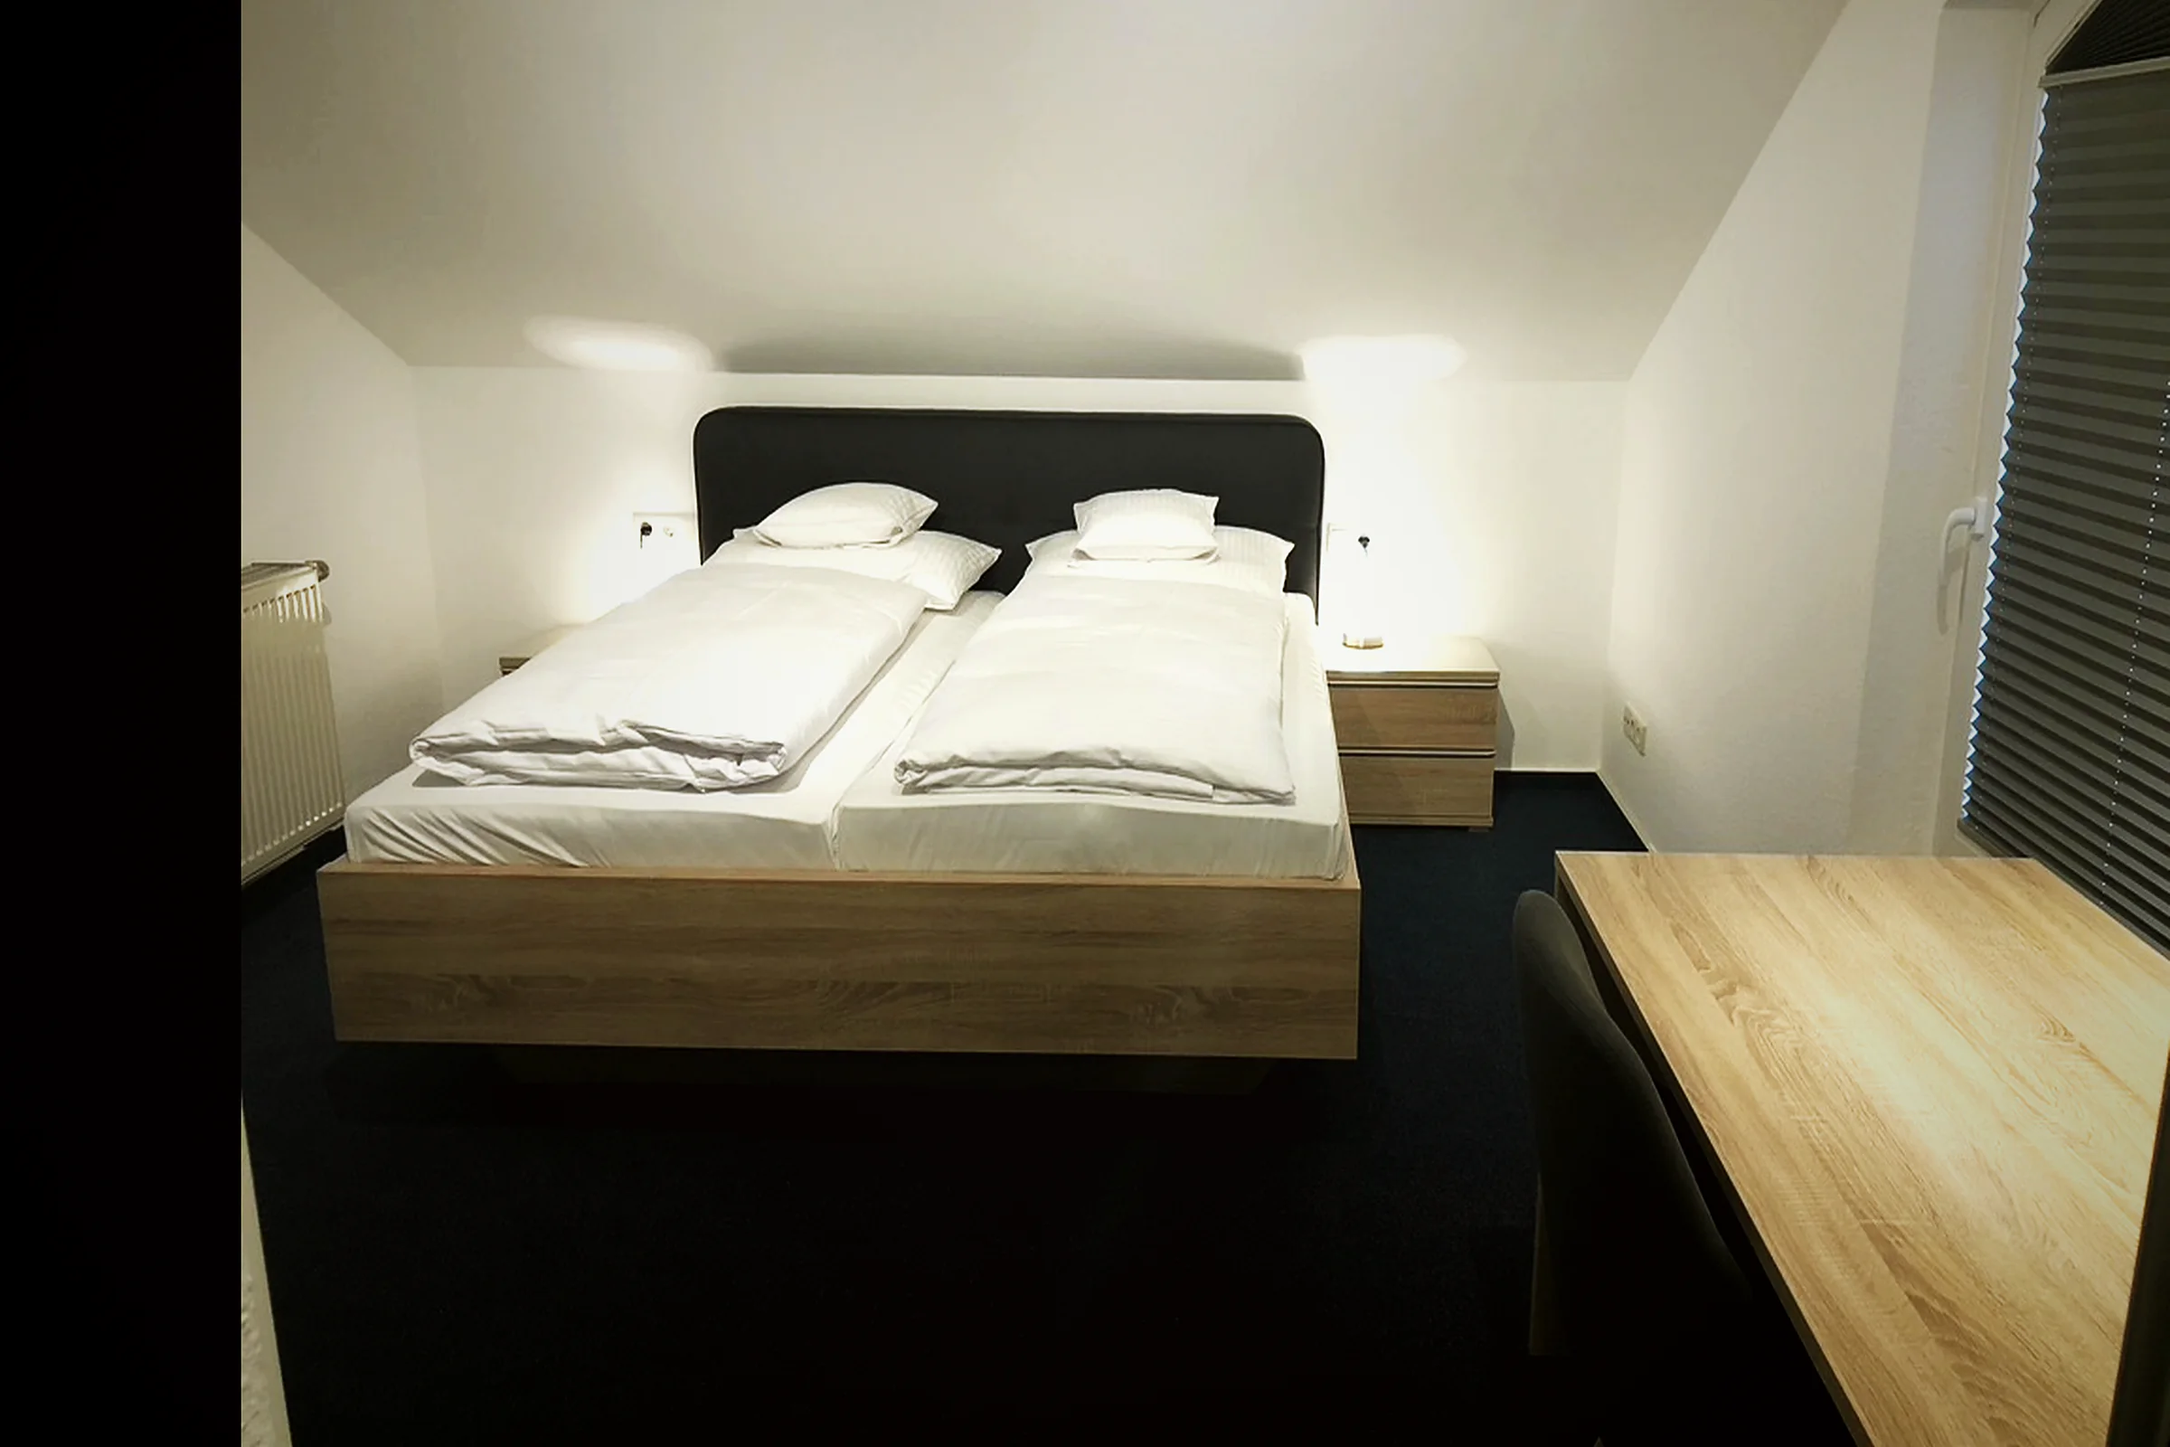
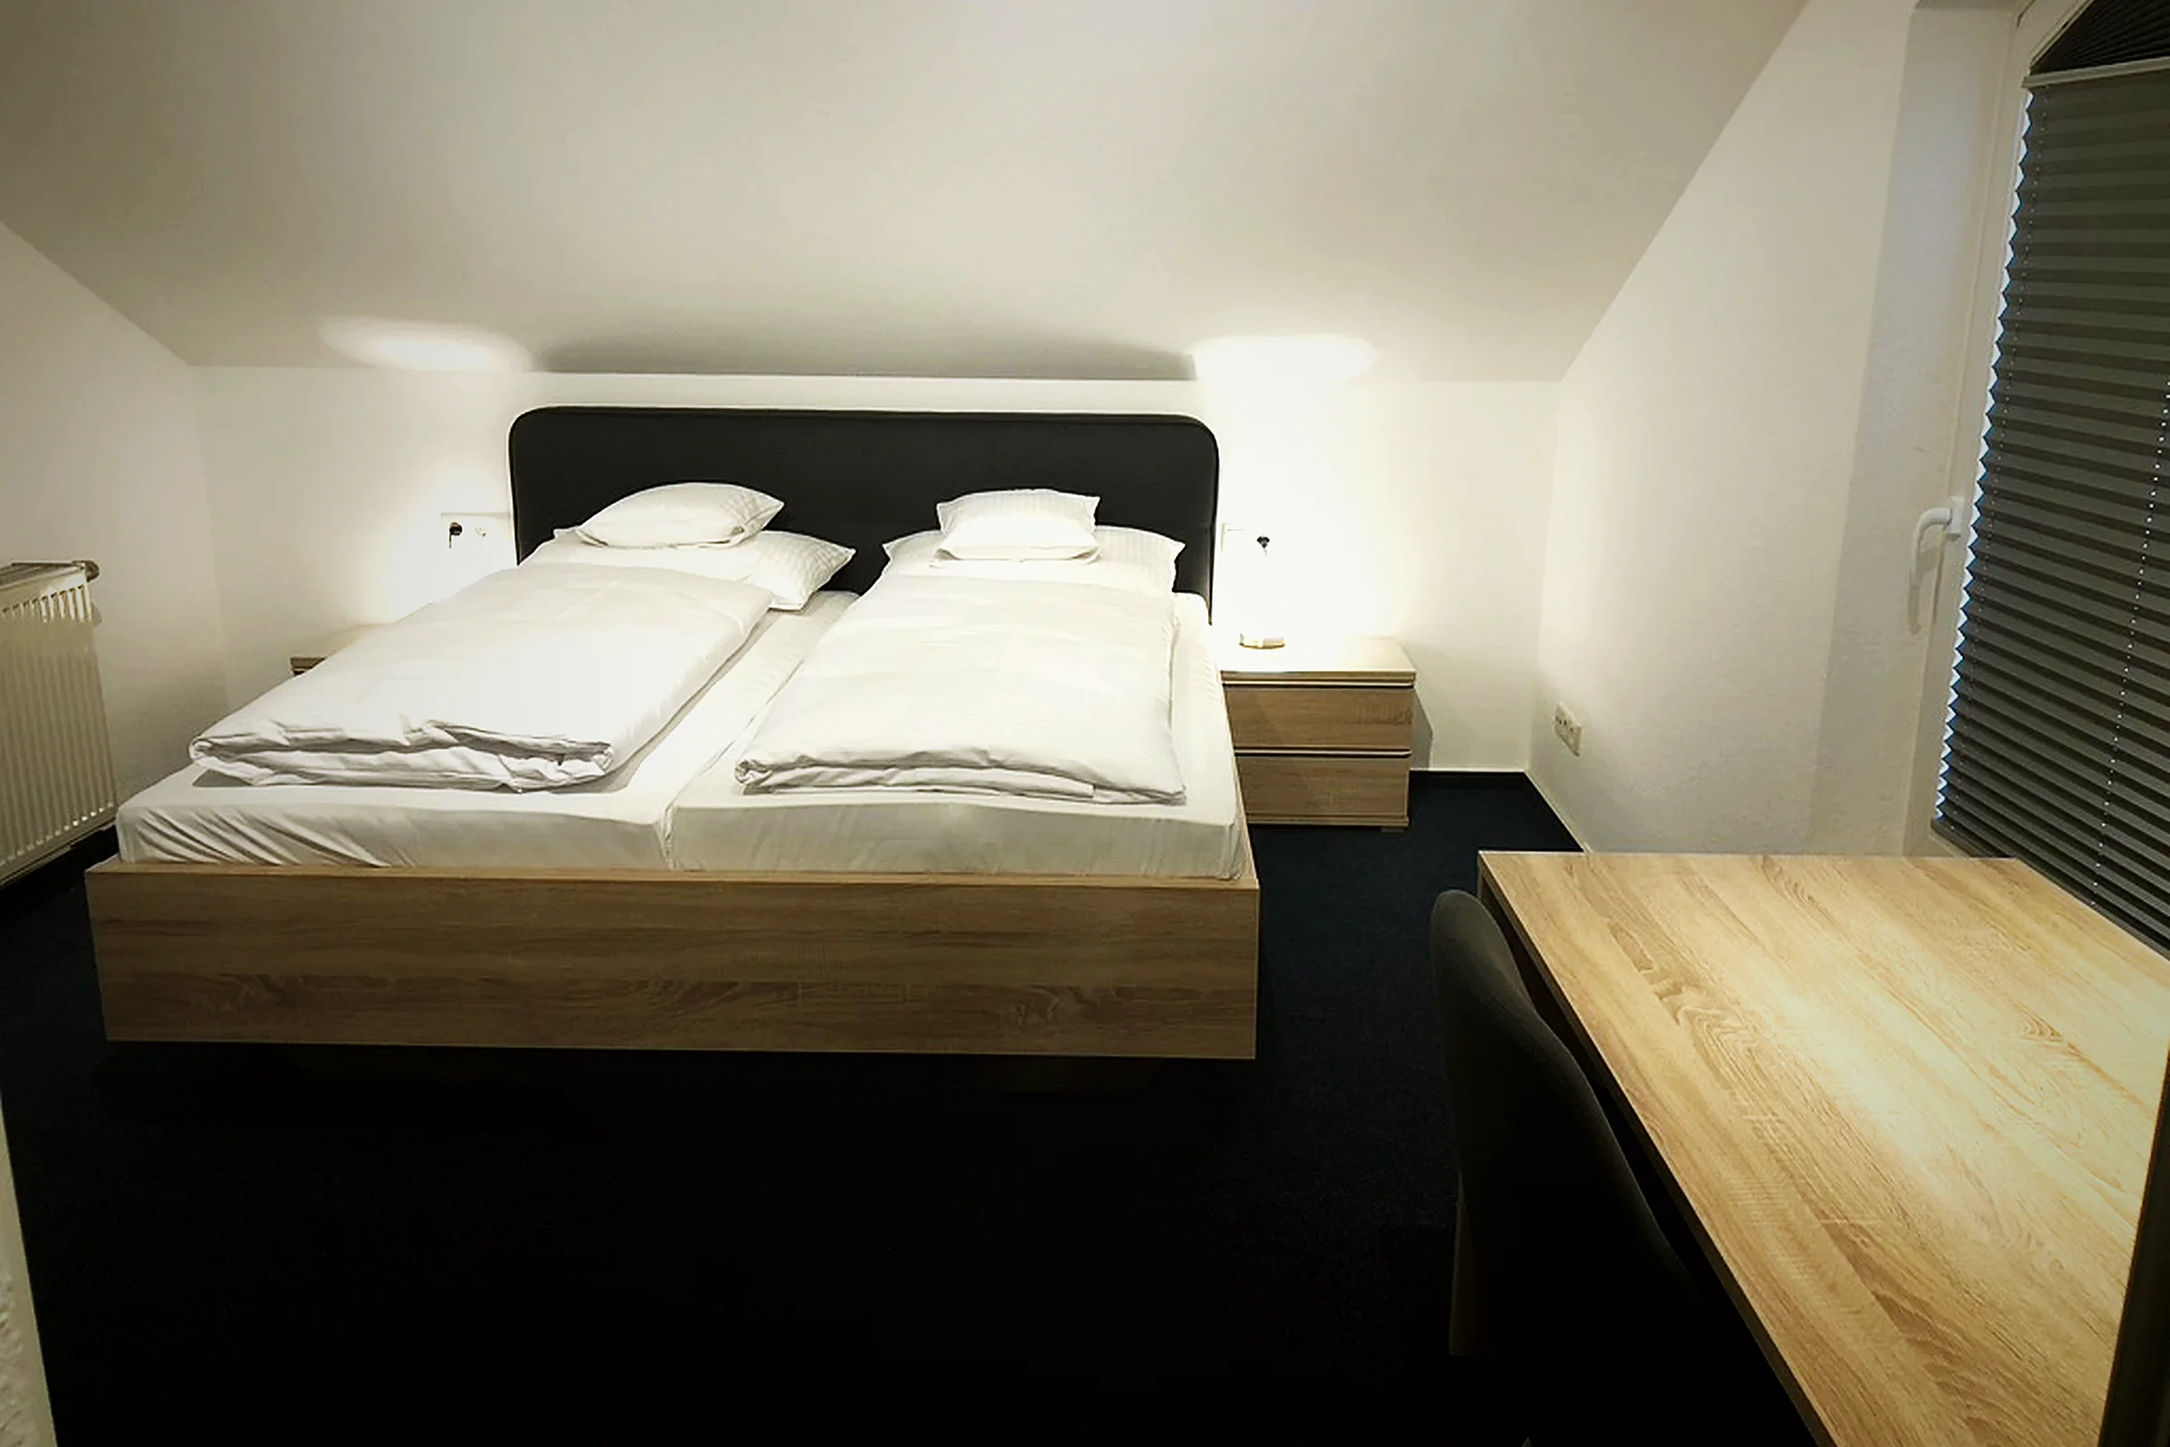
Totals in the planner and wizard without a date, full gallery in the preview, crop fix in the photo pipeline
- provisionalQuote: flat packages priced before a date is chosen – shown as
  net / VAT / gross in the planner panel, in the wizard summary (instead of
  dashes) and on the preview's confirmation page.
- Preview: 'Alle Bilder' opens a gallery of every room's photos.
- grade3.py: cover-crop was computed with a box larger than the source for
  4:3 and 16:9 photos (black bars); fixed and all affected photos re-rendered.
  Stronger cinematic look (clarity, richer curve), extra strength on the
  whole-house drone shot.

Claude-Session: https://claude.ai/code/session_01J4y3PV5V8L4J5YbyBJTNZz

diff --git a/tools/browser-demo/snapshot/runtime.ts b/tools/browser-demo/snapshot/runtime.ts
@@ -63,6 +63,8 @@ const bookable = spaces.filter((s) => s.bookable);
 const selected = new Set<string>();
 const rel = (src: string) => (src.startsWith("/") ? src.slice(1) : src);
 const esc = (s: string) => s.replace(/[&<>"]/g, (c) => ({ "&": "&amp;", "<": "&lt;", ">": "&gt;", '"': "&quot;" })[c]!);
+const PRICE_POLICY = { mode: "none" as const, downPaymentPercent: null, depositCollection: "separately" as const, depositStrategy: "sum" as const };
+const eur = (c: number | null) => (c === null ? "auf Anfrage" : (c / 100).toLocaleString("de-DE", { style: "currency", currency: "EUR" }));
 const LEVEL: Record<string, string> = { "ground-floor": "Erdgeschoss", "first-floor": "1. Obergeschoss", outdoor: "Außenbereich", site: "Gelände" };
 
 /* ------------------------------------------------------------------ tour */
@@ -136,6 +138,18 @@ function updateSelectionUi() {
     const text = b.querySelector("[data-pv-label]") ?? b;
     text.textContent = on ? "Ausgewählt ✓" : "Auswählen";
     b.setAttribute("aria-pressed", String(on));
+  });
+  // price box in the planner: same engine as the request dialog
+  const est = selected.size ? calculateQuote({
+    request: { spaceIds: [...selected], start: Date.UTC(2030, 0, 4, 17), end: Date.UTC(2030, 0, 4, 22), rentalMode: "hourly", dates: ["2030-01-04"], guestCount: null, extras: [] },
+    spaces: spaces.map((s) => ({ id: s.id, name: s.name, basePrice: s.basePrice, priceModel: s.priceModel, deposit: null, cleaningFee: s.cleaningFee, minimumDurationMinutes: null, bookingMode: "inquiry" as const })),
+    rules: [], bundles: [], extras: [], policy: PRICE_POLICY,
+  }) : null;
+  document.querySelectorAll<HTMLElement>("[data-pv-pricebox]").forEach((box) => {
+    box.classList.toggle("hidden", !est);
+    box.querySelector("[data-pv-net]")!.textContent = eur(est?.total ?? null);
+    box.querySelector("[data-pv-vat]")!.textContent = est?.vat.amount === null || est?.vat.amount === undefined ? "–" : eur(est.vat.amount);
+    box.querySelector("[data-pv-gross]")!.textContent = eur(est?.grossTotal ?? null);
   });
   const full = spaces.filter((s) => s.includedInFullVenue && s.bookable);
   const fullOn = full.length > 0 && full.every((s) => selected.has(s.id));
@@ -347,8 +361,6 @@ const flow = {
   error: "",
   ref: "",
 };
-const PRICE_POLICY = { mode: "none" as const, downPaymentPercent: null, depositCollection: "separately" as const, depositStrategy: "sum" as const };
-const eur = (c: number | null) => (c === null ? "auf Anfrage" : (c / 100).toLocaleString("de-DE", { style: "currency", currency: "EUR" }));
 
 /** Same price engine as the website: flat package per room (Fri–Sun), add-ons, 19 % VAT. */
 function quote(): Quote {
@@ -519,7 +531,8 @@ function renderFlow() {
       <h2 class="pv-h2">Vielen Dank, ${esc(flow.form.firstName)}!</h2>
       <p class="pv-ref">Ihre Anfragenummer <strong>${esc(flow.ref)}</strong></p>
       <p class="pv-text">Ihre Anfrage ist eingegangen und die Räume sind für Sie vorgemerkt. Die Krone meldet sich kurzfristig – bei Zusage telefonisch wegen Schlüsselübergabe und Kaution.</p>
-      <p class="pv-text"><strong>Voraussichtlich ${eur(q.grossTotal)}</strong> inkl. MwSt.${flow.extras.size ? ` (mit ${flow.extras.size} Zusatzleistung${flow.extras.size === 1 ? "" : "en"})` : ""}</p>
+      <h3 class="pv-h3">Voraussichtlicher Preis</h3>
+      ${priceHtml(q)}
       <dl class="pv-facts">
         <div><dt>Bereiche</dt><dd>${esc([...flow.spaces].map(nameOf).join(", "))}</dd></div>
         <div><dt>Termin</dt><dd>${esc(fmtRange())}<br>${flow.from}–${flow.to} Uhr</dd></div>
@@ -668,6 +681,23 @@ function closeTopLayer() {
   } else closeDialog();
 }
 
+/* ----------------------------------------------------------- full gallery */
+function openGalleryAll() {
+  const groups = spaces.filter((s) => s.images.length);
+  openDialog(
+    `<p class="pv-eyebrow">Galerie</p><h2 class="pv-h2">Die Krone in Bildern</h2>
+    ${groups
+      .map(
+        (s) => `<h3 class="pv-h3">${esc(s.name)}</h3><div class="pv-grid">${s.images
+          .map((src, i) => `<button type="button" class="pv-grid-item" data-room="${s.slug}" data-room-index="${i}" aria-label="${esc(s.name)} – Bild ${i + 1}"><img src="${esc(src)}" alt="" loading="lazy"></button>`)
+          .join("")}</div>`,
+      )
+      .join("")}
+    <div class="pv-actions"><button type="button" class="pv-btn" data-close>Schließen</button></div>`,
+    { wide: true, label: "Galerie" },
+  );
+}
+
 /* ------------------------------------------------------------ misc dialogs */
 function openAreaList() {
   openDialog(
@@ -702,7 +732,11 @@ function initEvents() {
     if ((hit = t("[data-remove]"))) return toggle(hit.dataset.remove!, false);
     if ((hit = t("[data-room]"))) {
       e.preventDefault();
-      return openRoom(hit.dataset.room!);
+      return openRoom(hit.dataset.room!, Number(hit.dataset.roomIndex ?? 0));
+    }
+    if ((hit = t("[data-gallery-all]"))) {
+      e.preventDefault();
+      return openGalleryAll();
     }
     if ((hit = t("[data-flow-next]"))) {
       flow.step = (flow.step + 1) as Step;

diff --git a/src/features/home/TourPlanner.tsx b/src/features/home/TourPlanner.tsx
@@ -16,7 +16,8 @@ import { SchedulePicker } from "@/features/booking/SchedulePicker";
 import type { SpaceView } from "@/features/spaces/types";
 import { track } from "@/lib/analytics";
 import { cn } from "@/lib/cn";
-import { formatDateMedium, pluralize } from "@/lib/format";
+import { formatDateMedium, formatMoney, pluralize } from "@/lib/format";
+import { provisionalQuote } from "@/features/booking/provisional-quote";
 import { useBookingStore, type ScheduleDraft } from "@/store/booking-store";
 
 function scheduleLabel(s: ScheduleDraft): string | null {
@@ -48,6 +49,7 @@ export function TourPlannerPanel({ spaces, index }: { spaces: SpaceView[]; index
   const hasRange = scheduleHasRange(schedule);
   const allAvailable = check.data?.bookingAllowed === true && check.state !== "loading";
   const label = scheduleLabel(schedule);
+  const estimate = provisionalQuote(bookable, selected);
 
   const goToBooking = (inquiry = false) => {
     setSubmissionMode(inquiry ? "inquiry" : "booking");
@@ -123,6 +125,22 @@ export function TourPlannerPanel({ spaces, index }: { spaces: SpaceView[]; index
       </ul>
 
       <div className="border-t border-white/10 px-5 pb-[max(1rem,env(safe-area-inset-bottom))] pt-3 lg:px-7 lg:pb-6 lg:pt-5">
+        {/* estimate for the current selection – the preview runtime updates the figures via data-pv-* */}
+        <dl data-pv-pricebox className={cn("mb-3 space-y-0.5 text-sm", selected.length === 0 && "hidden")}>
+          <div className="flex justify-between text-paper/60">
+            <dt>Netto</dt>
+            <dd data-pv-net className="tabular-nums">{formatMoney(estimate?.total ?? null, "auf Anfrage")}</dd>
+          </div>
+          <div className="flex justify-between text-paper/60">
+            <dt>19 % MwSt.</dt>
+            <dd data-pv-vat className="tabular-nums">{formatMoney(estimate?.vat.amount ?? null, "–")}</dd>
+          </div>
+          <div className="flex items-baseline justify-between">
+            <dt className="font-semibold">Gesamt</dt>
+            <dd data-pv-gross className="font-serif text-2xl tabular-nums" data-testid="planner-total">{formatMoney(estimate?.grossTotal ?? null, "auf Anfrage")}</dd>
+          </div>
+          <p className="text-[0.7rem] text-paper/45">Pauschale Fr–So, ohne Zusatzleistungen · Kaution separat</p>
+        </dl>
         <p className="mb-2 text-xs text-paper/55">
           Übernachtung? <Link href="/bereiche/hotel#zimmer" className="text-gold-light underline-offset-2 hover:underline">Zimmer einzeln buchen</Link>
         </p>

diff --git a/src/features/booking/provisional-quote.ts b/src/features/booking/provisional-quote.ts
@@ -1,0 +1,58 @@
+import { calculateQuote, type ExtraDefinition, type PricedSpace, type Quote } from "@/domain/pricing";
+
+/**
+ * Price estimate before a date is chosen. The rooms are flat packages
+ * (Fri–Sun), so the amount does not depend on the time – only further days
+ * and per-guest add-ons change it later. Used by the planner, the wizard's
+ * summary and the preview, so every "Gesamt" shows the same figures.
+ */
+export interface ProvisionalSpace {
+  id: string;
+  name: string;
+  basePrice: number | null;
+  priceModel: PricedSpace["priceModel"];
+  cleaningFee: number | null;
+  deposit?: number | null;
+}
+
+export interface ProvisionalExtra {
+  id: string;
+  name: string;
+  priceModel: ExtraDefinition["priceModel"];
+  unitPrice: number | null;
+}
+
+export function provisionalQuote(
+  spaces: readonly ProvisionalSpace[],
+  selectedIds: readonly string[],
+  options: { extras?: readonly ProvisionalExtra[]; chosenExtras?: readonly string[]; guestCount?: number | null; dates?: readonly string[] } = {},
+): Quote | null {
+  const ids = selectedIds.filter((id) => spaces.some((s) => s.id === id));
+  if (!ids.length) return null;
+  const start = Date.UTC(2030, 0, 4, 17); // any Friday evening – flat prices ignore the exact time
+  return calculateQuote({
+    request: {
+      spaceIds: ids,
+      start,
+      end: start + 5 * 3_600_000,
+      rentalMode: "hourly",
+      dates: [...(options.dates ?? ["2030-01-04"])],
+      guestCount: options.guestCount ?? null,
+      extras: (options.chosenExtras ?? []).map((extraId) => ({ extraId, quantity: 1 })),
+    },
+    spaces: spaces.map((s) => ({
+      id: s.id,
+      name: s.name,
+      basePrice: s.basePrice,
+      priceModel: s.priceModel,
+      deposit: s.deposit ?? null,
+      cleaningFee: s.cleaningFee,
+      minimumDurationMinutes: null,
+      bookingMode: "inquiry" as const,
+    })),
+    rules: [],
+    bundles: [],
+    extras: (options.extras ?? []).map((e) => ({ id: e.id, name: e.name, priceModel: e.priceModel, unitPrice: e.unitPrice, active: true, isDemo: false })),
+    policy: { mode: "none", downPaymentPercent: null, depositCollection: "separately", depositStrategy: "sum" },
+  });
+}

diff --git a/src/features/booking/wizard/BookingWizard.tsx b/src/features/booking/wizard/BookingWizard.tsx
@@ -12,6 +12,7 @@ import { fetchJson, useAsyncResource } from "@/lib/use-async-resource";
 import { AvailabilityResult } from "@/features/booking/AvailabilityResult";
 import { scheduleHasRange, usePriceQuote } from "@/features/booking/hooks";
 import { PriceBreakdown } from "@/features/booking/PriceBreakdown";
+import { provisionalQuote, type ProvisionalExtra } from "@/features/booking/provisional-quote";
 import { SchedulePicker } from "@/features/booking/SchedulePicker";
 import { SiteMap } from "@/features/map/SiteMap";
 import type { SpaceView } from "@/features/spaces/types";
@@ -697,7 +698,15 @@ export function BookingWizard({ spaces, extras, eventTypes, terms, demo, payment
                   <PriceBreakdown quote={q} tone="dark" demo={demo} showDueNow={mode === "booking"} />
                 )
               ) : (
-                <PriceBreakdown quote={null} tone="dark" />
+                <>
+                  <PriceBreakdown
+                    quote={provisionalQuote(spaces, selected, { extras: extras.map((e) => ({ id: e.id, name: e.name, priceModel: e.priceModel as ProvisionalExtra["priceModel"], unitPrice: e.unitPrice })), chosenExtras: Object.entries(s.extras).filter(([, n]) => n > 0).map(([id]) => id), guestCount: guests })}
+                    tone="dark"
+                    demo={demo}
+                    showDueNow={false}
+                  />
+                  {selected.length > 0 && <p className="mt-2 text-xs text-paper/50">Vorläufig – Pauschalen Fr–So; weitere Tage und Gästezahl ändern den Betrag.</p>}
+                </>
               )}
               {quote.state === "loading" && <p className="mt-2 text-xs text-paper/50">wird aktualisiert …</p>}
             </div>

diff --git a/tools/browser-demo/snapshot/preview.css b/tools/browser-demo/snapshot/preview.css
@@ -181,3 +181,9 @@ body { font-size: 1rem; }
 .pv-total-line { display: flex; justify-content: space-between; align-items: baseline; gap: 1rem; margin-top: 1.25rem; padding: 0.75rem 1rem; border-radius: 0.9rem; background: var(--color-cream); font-size: 0.9rem; color: var(--color-muted); }
 .pv-total-line strong { font-family: var(--font-serif); font-size: 1.4rem; color: var(--color-ink); font-variant-numeric: tabular-nums; }
 .pv-day.is-range { background: var(--color-gold-pale); border-color: var(--color-gold); }
+.pv-h3 { margin-top: 1.25rem; font-size: 1.25rem; }
+
+.pv-grid { display: grid; grid-template-columns: repeat(auto-fill, minmax(160px, 1fr)); gap: 0.5rem; margin-top: 0.5rem; }
+.pv-grid-item { display: block; overflow: hidden; border-radius: 0.75rem; aspect-ratio: 3 / 2; }
+.pv-grid-item img { width: 100%; height: 100%; object-fit: cover; transition: transform 0.3s; }
+.pv-grid-item:hover img { transform: scale(1.04); }

diff --git a/tools/media/grade3.py b/tools/media/grade3.py
@@ -9,11 +9,14 @@ from PIL import Image, ImageOps, ImageFilter
 import pillow_heif, imageio_ffmpeg
 pillow_heif.register_heif_opener()
 FF = imageio_ffmpeg.get_ffmpeg_exe()
-IC = os.environ.get("KRONE_ORIGINALS", os.path.join(os.path.dirname(os.path.abspath(__file__)), "../icloud2/"))  # catalog.json + originals/ (not in git)
+IC = os.environ.get("KRONE_ORIGINALS", os.path.join(os.path.dirname(os.path.abspath(__file__)), "../icloud2/"))
 cat = {i["id"]: i for i in json.load(open(IC + "catalog.json"))["items"]}
-LOOK = ("eq=contrast=1.08:saturation=1.08:gamma=0.98,"
+CINE = float(os.environ.get("CINE", "1.0"))
+LOOK = (f"eq=contrast={1.06 + 0.04 * CINE:.3f}:saturation={1.06 + 0.06 * CINE:.3f}:gamma=0.98,"
         "colorbalance=rs=0.03:bs=-0.03:rm=0.02:bm=-0.04:rh=0.01:bh=-0.04,"
-        "curves=all='0/0.015 0.2/0.17 0.5/0.5 0.8/0.84 1/0.985'")
+        f"curves=all='0/0.012 0.2/{0.175 - 0.01 * CINE:.3f} 0.5/0.5 0.8/{0.835 + 0.01 * CINE:.3f} 1/0.988',"
+        # clarity: wide-radius unsharp mask = local contrast, like a Lightroom "Clarity" push
+        f"unsharp=13:13:{0.35 * CINE:.2f}:13:13:0")
 
 def load(src):
     if src.startswith("F"):
@@ -51,9 +54,10 @@ def main(src, out, w, h, cx=0.5, cy=0.5):
     im = normalise(load(src))
     # crop to aspect around the focus point, at ≥ 1.25× output for clean downscale
     W, H = im.size; ar = w / h
-    cw, ch = (W, int(W / ar)) if W / H > ar else (int(H * ar), H)
-    if W / H > ar: cw = int(H * ar)
-    else: ch = int(W / ar)
+    # cover-crop to the target aspect: never larger than the source (a too-large box left black bars)
+    if W / H > ar: cw, ch = int(round(H * ar)), H
+    else: cw, ch = W, int(round(W / ar))
+    cw, ch = min(cw, W), min(ch, H)
     x0 = int(min(max(0, cx * W - cw / 2), W - cw)); y0 = int(min(max(0, cy * H - ch / 2), H - ch))
     im = im.crop((x0, y0, x0 + cw, y0 + ch))
     big = (max(w, int(w * 1.25)), max(h, int(h * 1.25)))
